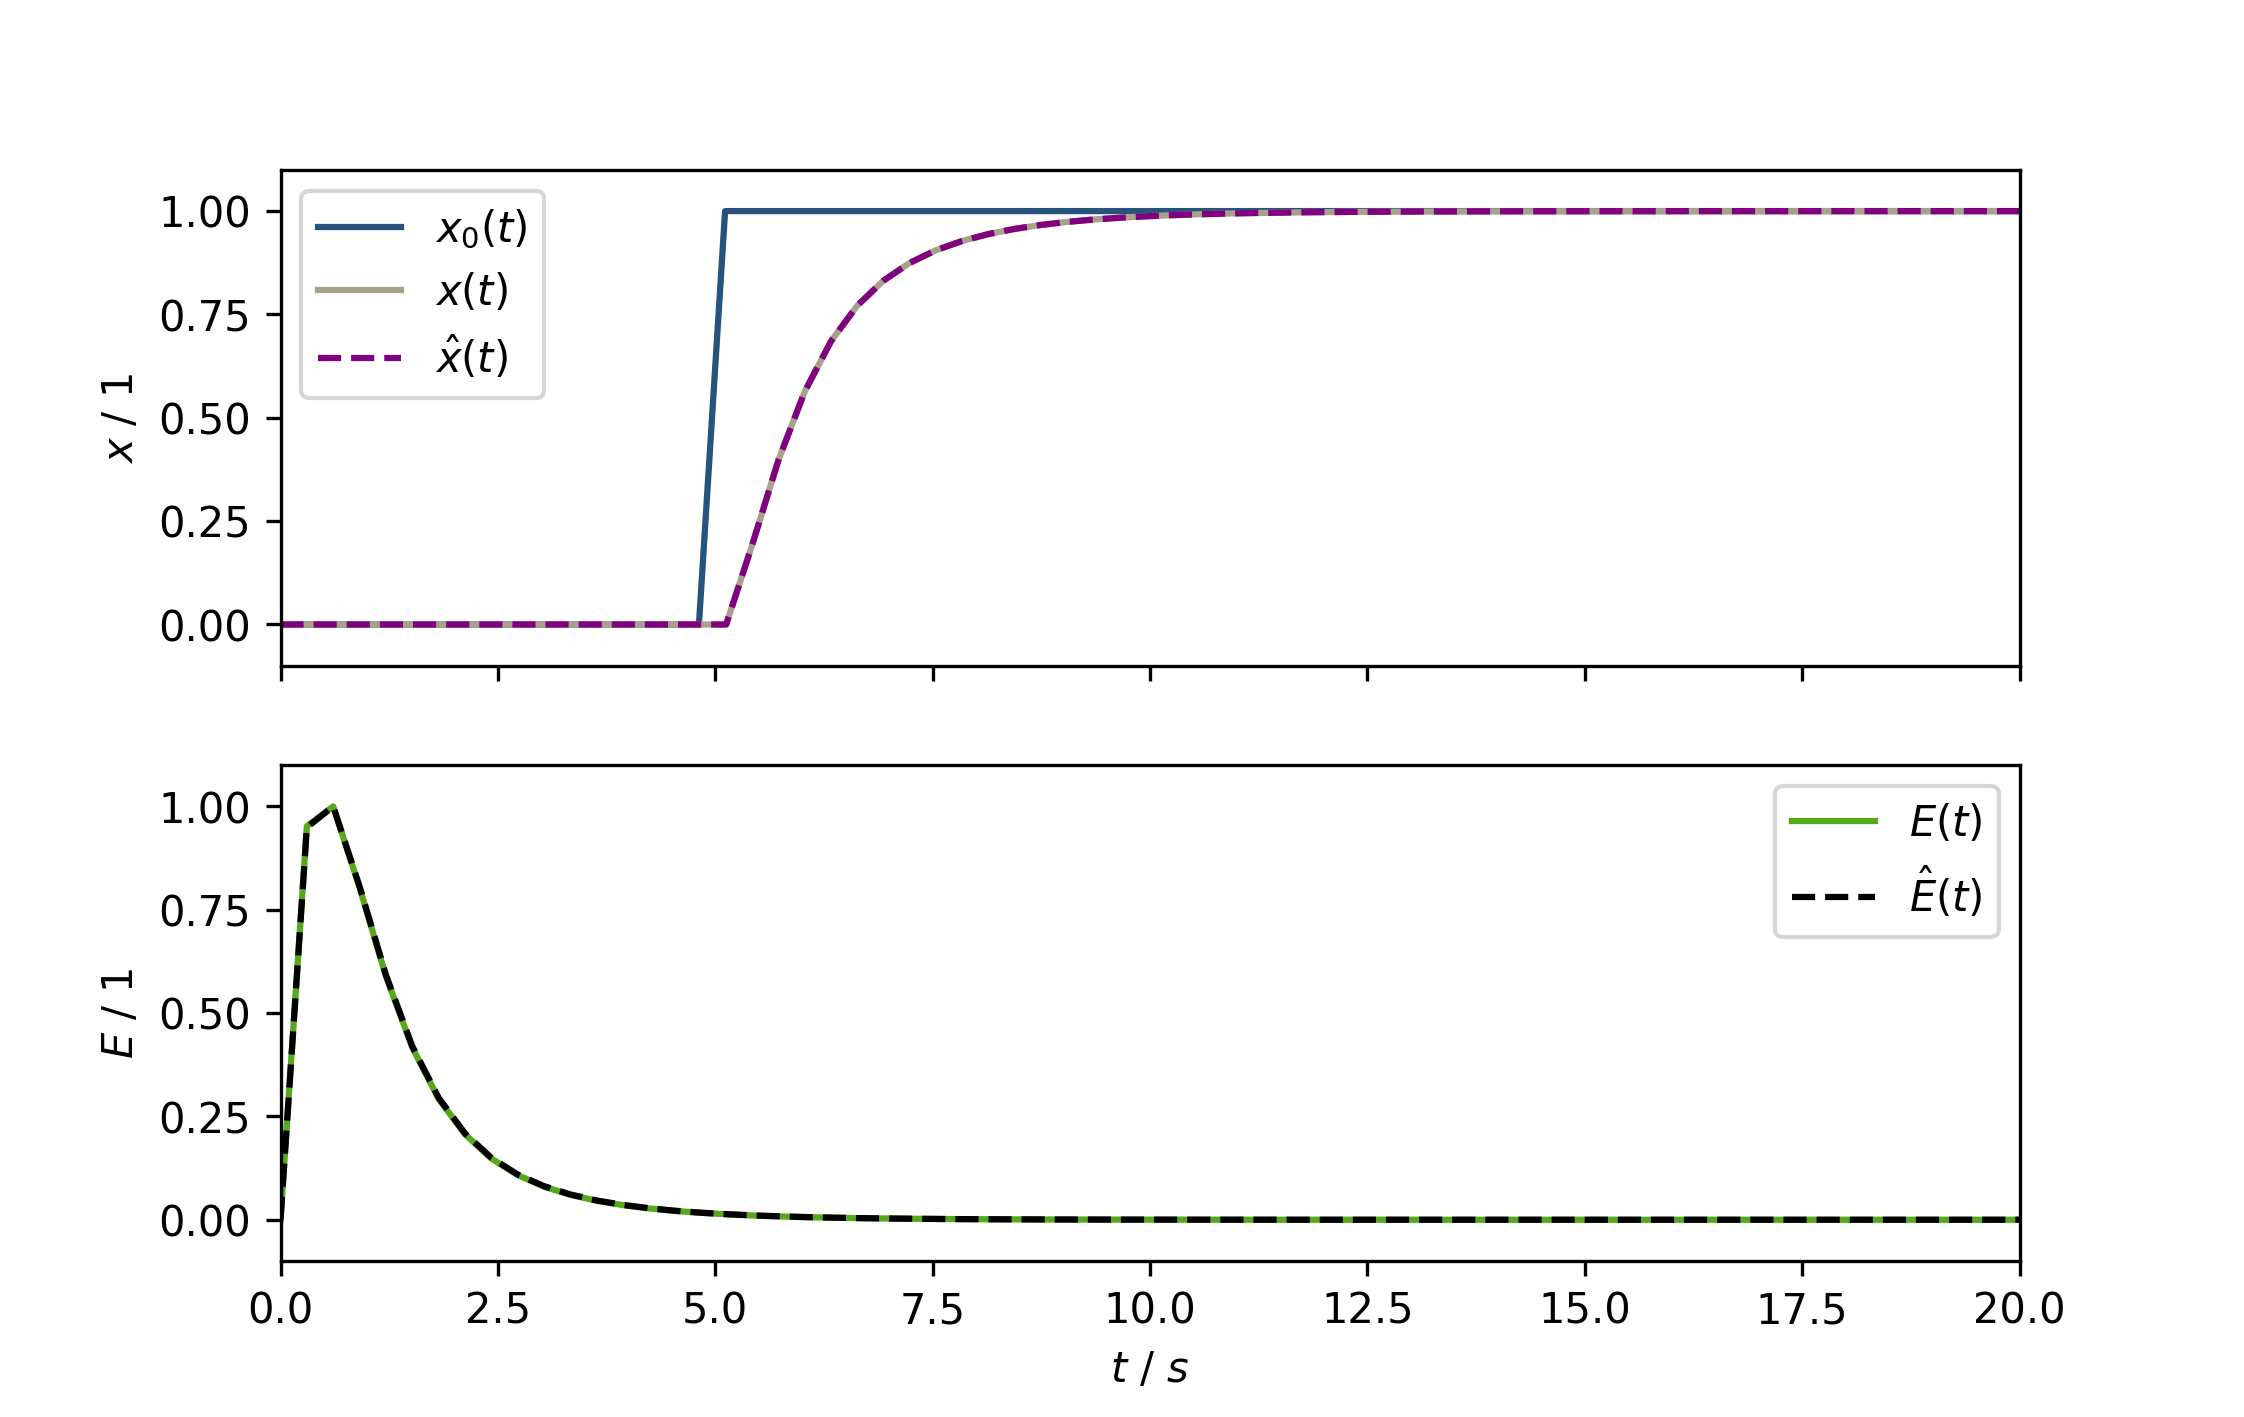
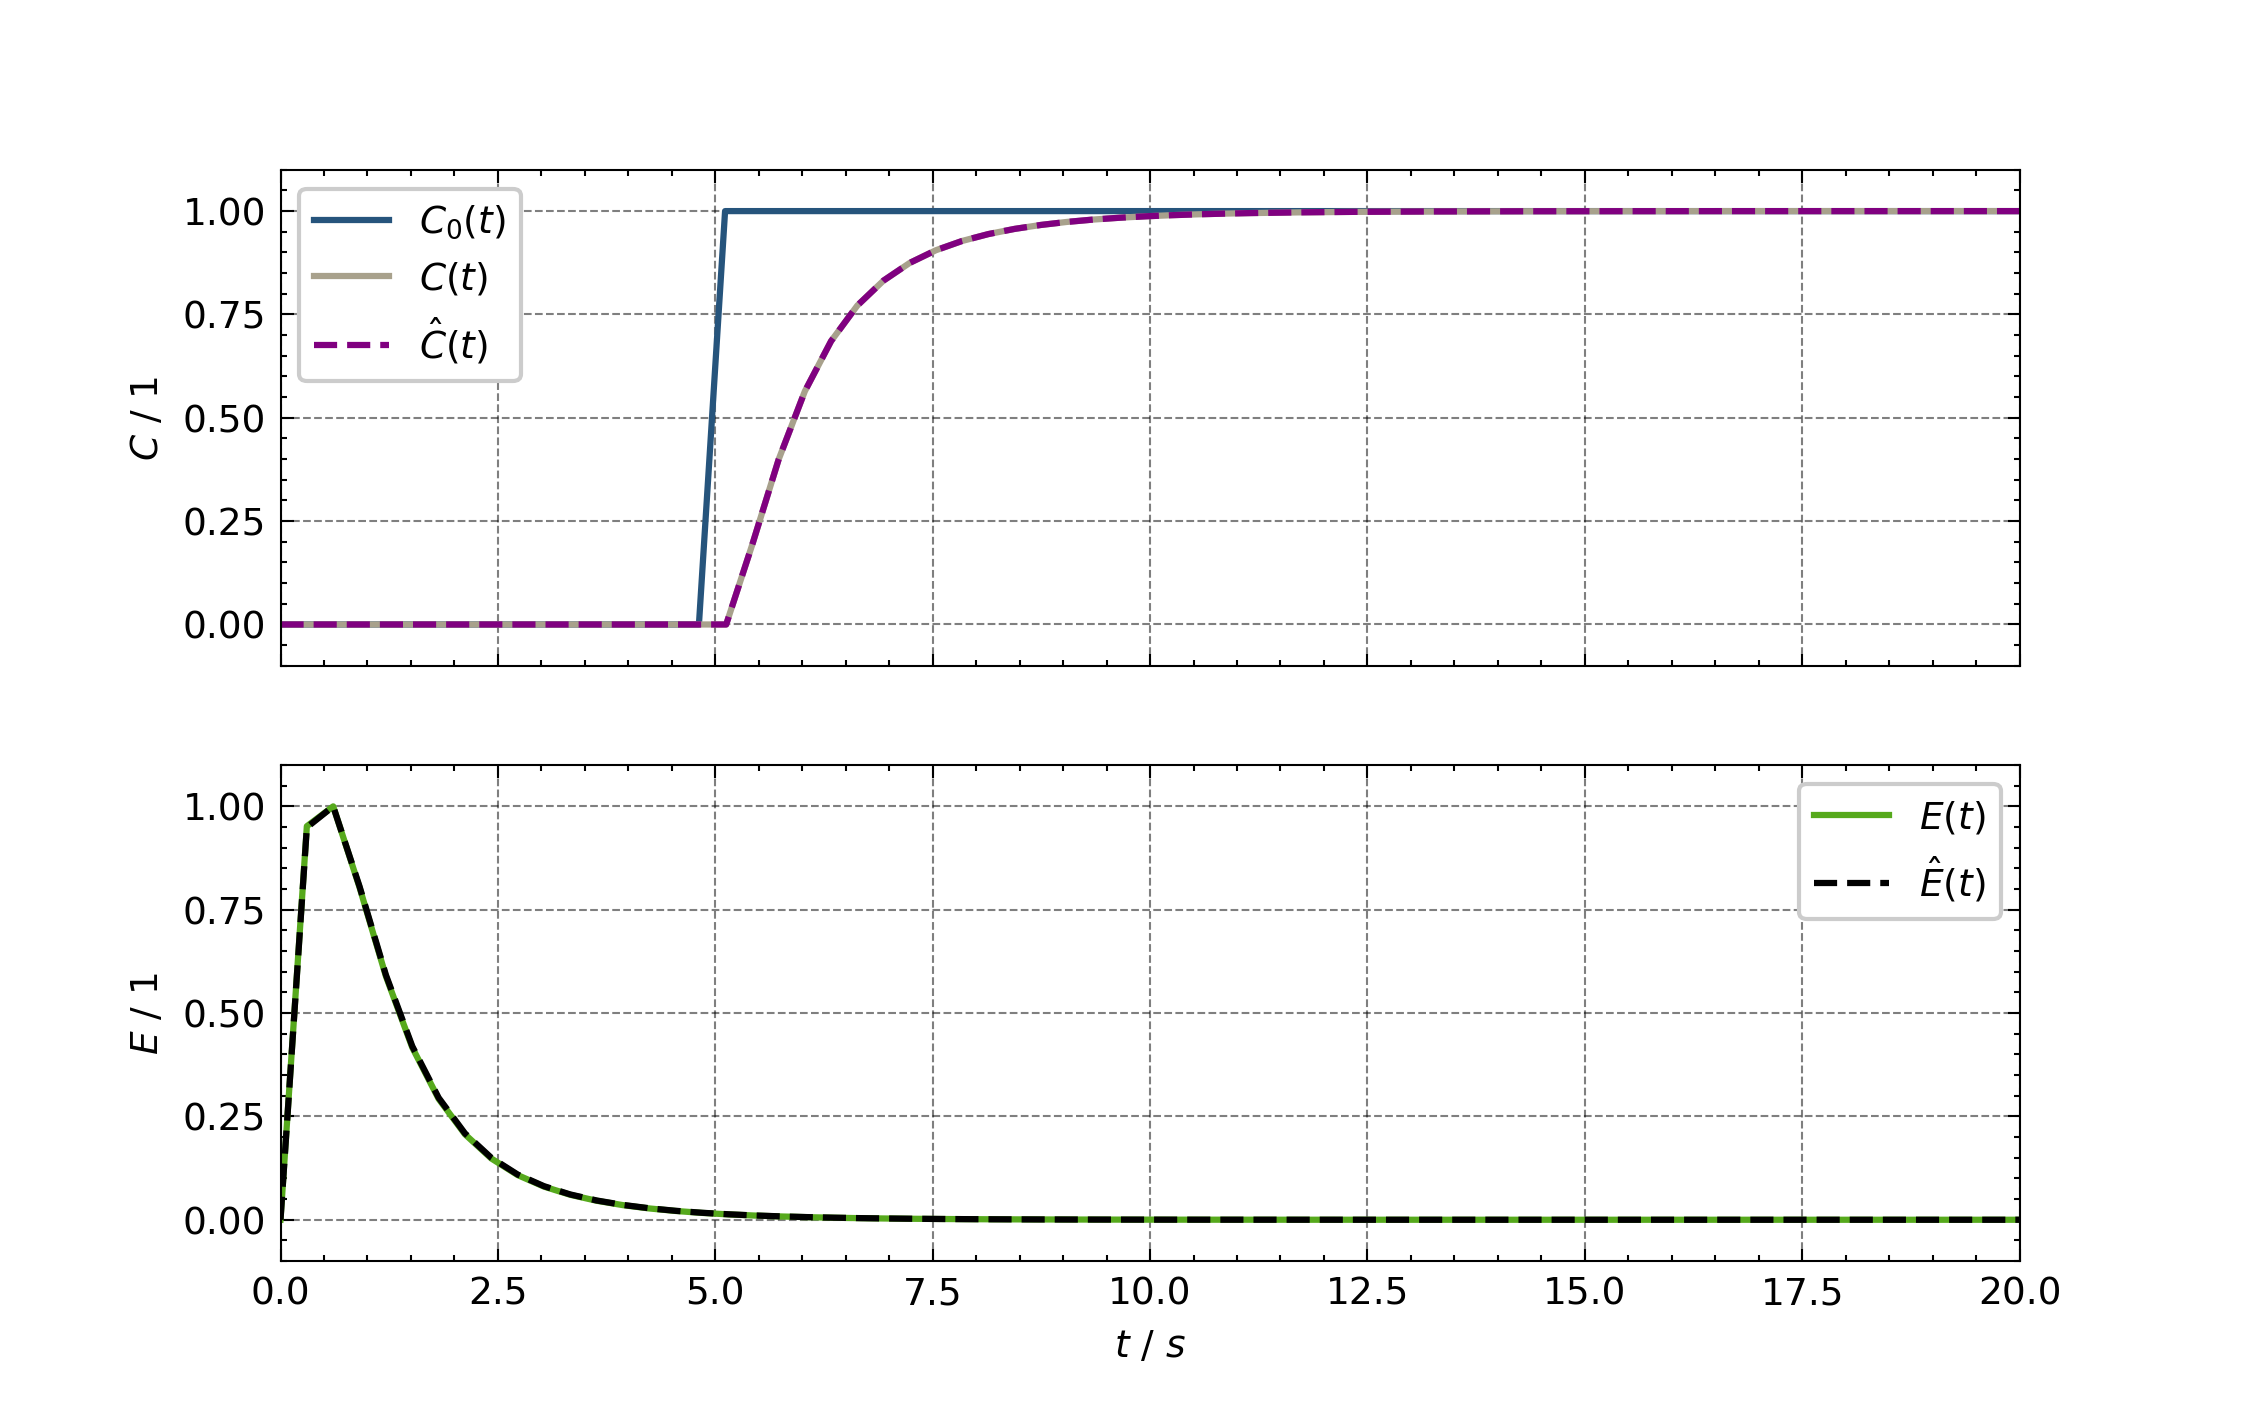
plots

diff --git a/Experiments/Preliminary/Convolution_script/Convolution_025_Unified_time_Model/Convolution_025_Unified_time_Model_j2_tau1.py b/Experiments/Preliminary/Convolution_script/Convolution_025_Unified_time_Model/Convolution_025_Unified_time_Model_j2_tau1.py
@@ -224,24 +224,25 @@ import ICIW_Plots.colors as ICIWcolors
 from ICIW_Plots.figures import Elsevier_Sizes
 import datetime
 from ICIW_Plots import cm2inch
-
+plt.style.use("ICIWstyle")
 fig, (ax1, ax2) = plt.subplots(2, 1, sharex=True, figsize=(Elsevier_Sizes.double_column["in"], 12 * cm2inch))
-ax1.plot(t_input.numpy(), c_in[0, 0, :].numpy(), label=r"$x_0(t)$", color=ICIWcolors.CERULEAN)
+plt.style.use("ICIWstyle")
+ax1.plot(t_input.numpy(), c_in[0, 0, :].numpy(), label=r"$C_0(t)$", color=ICIWcolors.CERULEAN)
 for i in range(c_out.size(1)):
     ax1.plot(
         t_conv[0, i, :].numpy(),
         c_out[0, i, :].numpy(),
-        label=r"$x(t)$",
+        label=r"$C(t)$",
         color=ICIWcolors.DRAB
     )
 ax1.plot(
     t_conv[0, 0, :].numpy(),
     c_conv[0, 0, :].detach().numpy(),
-    label=r"$\hat{x}(t)$",
+    label=r"$\hat{C}(t)$",
     color="purple",
     linestyle="--"
 )
-ax1.set_ylabel(r"$x$ / $1$", )
+ax1.set_ylabel(r"$C$ / $1$", )
 ax1.legend(loc='best')
 ax1.set_xlim((0, 20))  
 ax1.set_ylim((-0.1, 1.1))  

diff --git a/Experiments/Preliminary/Convolution_script/Convolution_025_Unified_time_Model/Convolution_Unified_time_delay_Model_J5_tau1.py b/Experiments/Preliminary/Convolution_script/Convolution_025_Unified_time_Model/Convolution_Unified_time_delay_Model_J5_tau1.py
@@ -210,22 +210,23 @@ E_expected = E_expected / E_expected.max()
 plt.style.use("ICIWstyle")
 
 fig, (ax1, ax2) = plt.subplots(2, 1, sharex=True, figsize=(Elsevier_Sizes.double_column["in"], 12 * cm2inch))
-ax1.plot(t_input.numpy(), c_in[0, 0, :].numpy(), label=r"$x_0(t)$", color=ICIWcolors.CERULEAN)
+plt.style.use("ICIWstyle")
+ax1.plot(t_input.numpy(), c_in[0, 0, :].numpy(), label=r"$C_0(t)$", color=ICIWcolors.CERULEAN)
 for i in range(c_out.size(1)):
     ax1.plot(
         t_conv[0, i, :].numpy(),
         c_out[0, i, :].numpy(),
-        label=r"$x(t)$",
+        label=r"$C(t)$",
         color=ICIWcolors.DRAB
     )
 ax1.plot(
     t_conv[0, 0, :].numpy(),
     c_conv[0, 0, :].detach().numpy(),
-    label=r"$\hat{x}(t)$",
+    label=r"$\hat{C}(t)$",
     color="purple",
     linestyle="--"
 )
-ax1.set_ylabel(r"$x$ / $1$", )
+ax1.set_ylabel(r"$C$ / $1$", )
 ax1.legend(loc='best')
 ax1.set_xlim((0, 20))  
 ax1.set_ylim((-0.1, 1.1))  

diff --git a/Experiments/Preliminary/Convolution_script/Convolution_023_Adler_havarka_Model/Convolution_023_Adler_havarka_Model_tau_3.py b/Experiments/Preliminary/Convolution_script/Convolution_023_Adler_havarka_Model/Convolution_023_Adler_havarka_Model_tau_3.py
@@ -281,8 +281,9 @@ import numpy as np
 import ICIW_Plots.colors as ICIWcolors
 from ICIW_Plots.figures import Elsevier_Sizes
 import datetime
-
+plt.style.use("ICIWstyle")
 fig, (ax1, ax2) = plt.subplots(2, 1, sharex=True, figsize=(Elsevier_Sizes.double_column["in"], 12 * cm2inch))
+plt.style.use("ICIWstyle")
 ax1.plot(t_input.numpy(), c_in[0, 0, :].numpy(), label=r"$C_0(t)$", color=ICIWcolors.CERULEAN)
 for i in range(c_out.size(1)):
     ax1.plot(
@@ -293,7 +294,7 @@ for i in range(c_out.size(1)):
     )
 ax1.plot(
     t_conv[0, 0, :].numpy(),
-    c_conv[0, 0, :],
+    c_conv[0, 0, :].detach().numpy(),
     label=r"$\hat{C}{(t)}$",
     color="purple",
     linestyle="--"

diff --git a/Experiments/Preliminary/Convolution_script/Convolution_024_Cholete_Model/Convolution_024_Cholete_Model_Bo_9_100s.py b/Experiments/Preliminary/Convolution_script/Convolution_024_Cholete_Model/Convolution_024_Cholete_Model_Bo_9_100s.py
@@ -279,7 +279,7 @@ for i in range(c_out.size(1)):
     )
 ax1.plot(
     t_conv[0, 0, :].numpy(),
-    c_conv[0, 0, :].detach().numpy(),
+    c_conv[0, 0, :],
     label=r"$\hat{C}(t)$",
     color="purple",
     linestyle="--"
